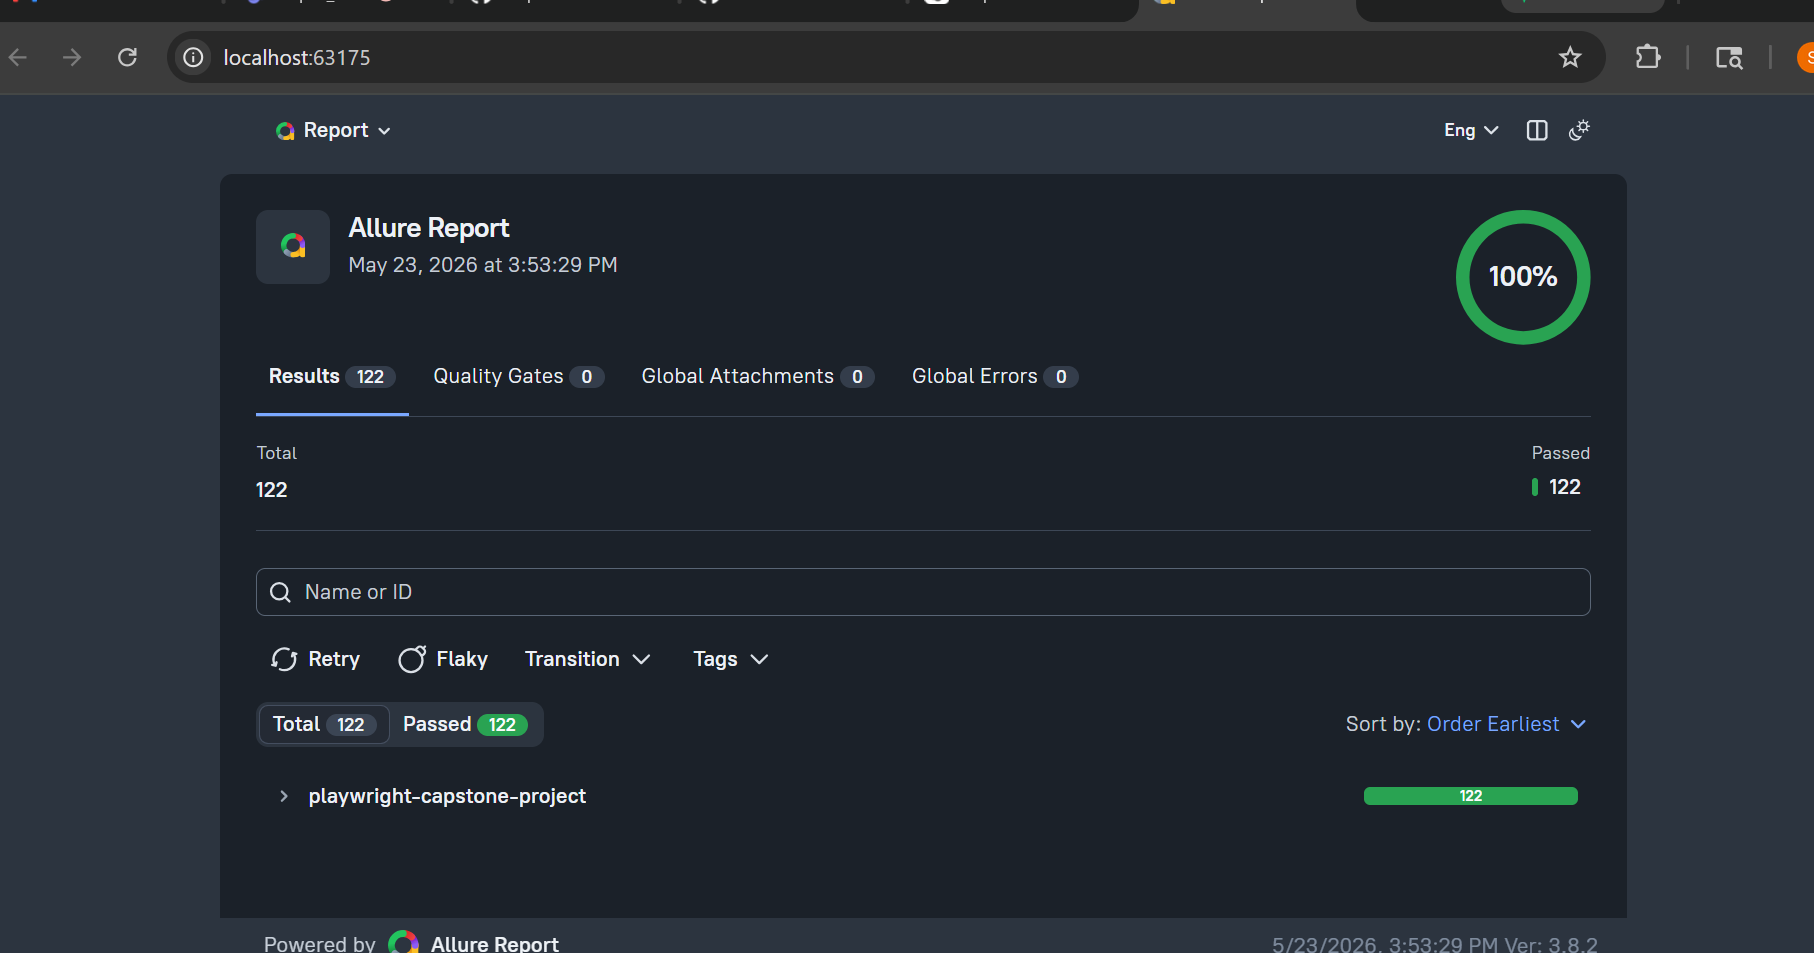
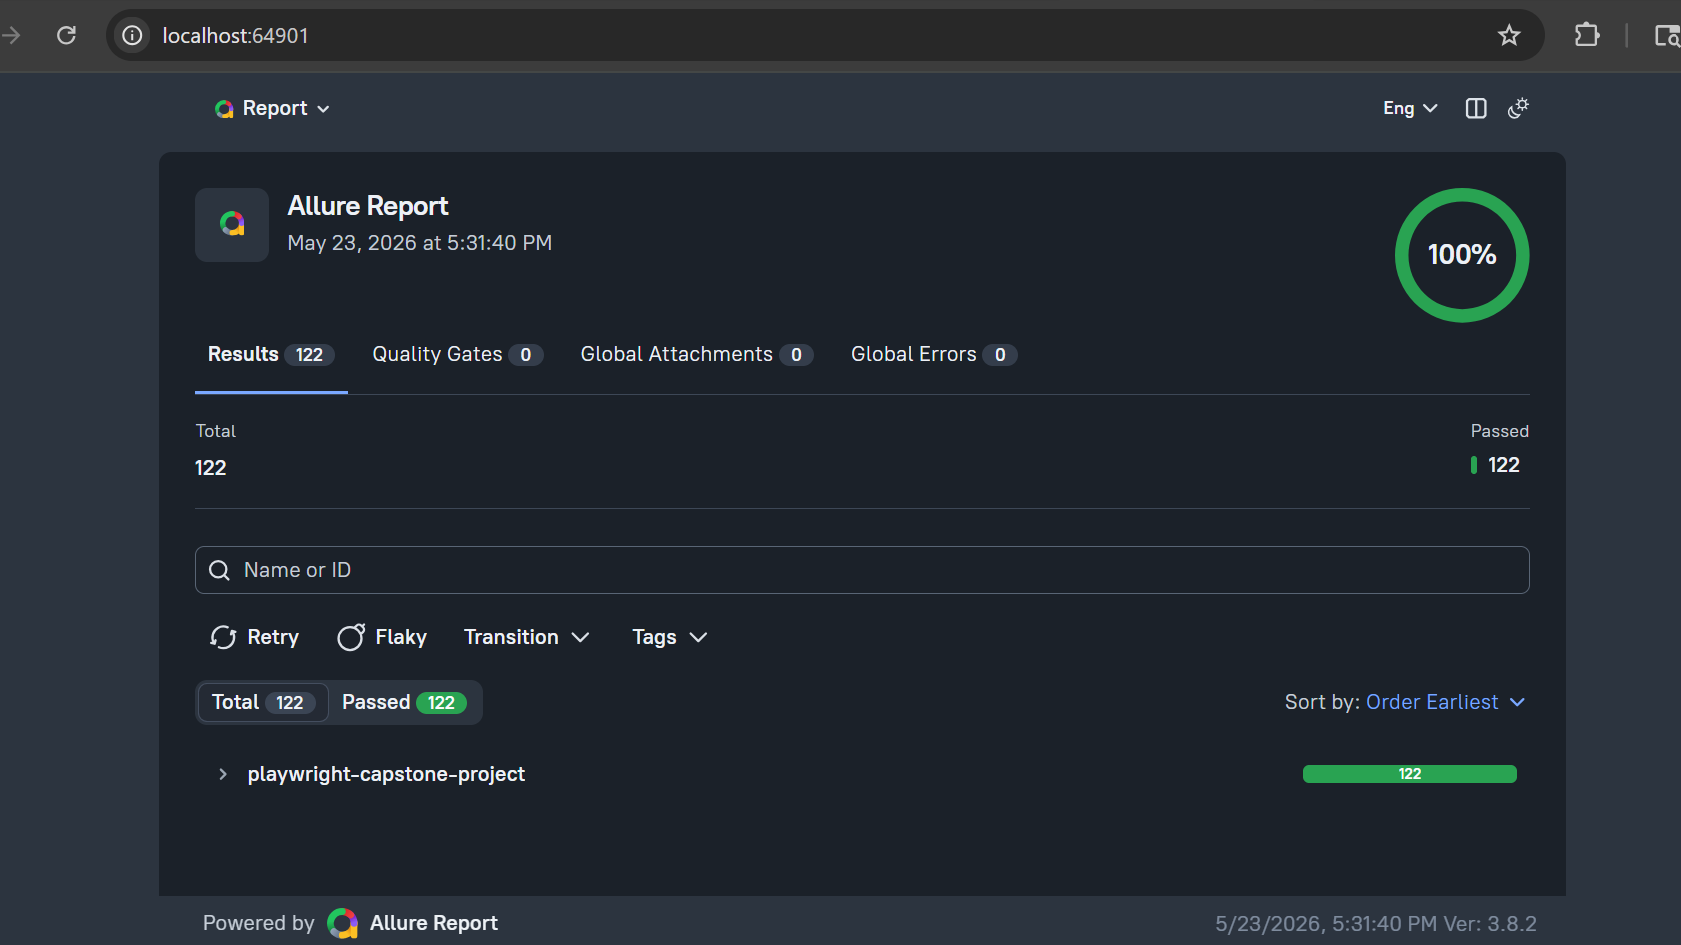
Re-added screenshots with correct lowercase names

diff --git a/README.md b/README.md
@@ -180,11 +180,11 @@ Project Documentation
 
 ## HTML Report
 
-![HTML Report](./screenshots/HTML-report.png)
+![HTML Report](./screenshots/html-report.png)
 
 ## Allure Report
 
-![Allure Report](./screenshots/Allure-report.png)
+![Allure Report](./screenshots/allure-report.png)
 
 Project Planner PDF available inside:
 
@@ -195,4 +195,7 @@ Author
 Sahil Alam
 
 Wipro SDET Playwright Capstone Project
+
+
+
 